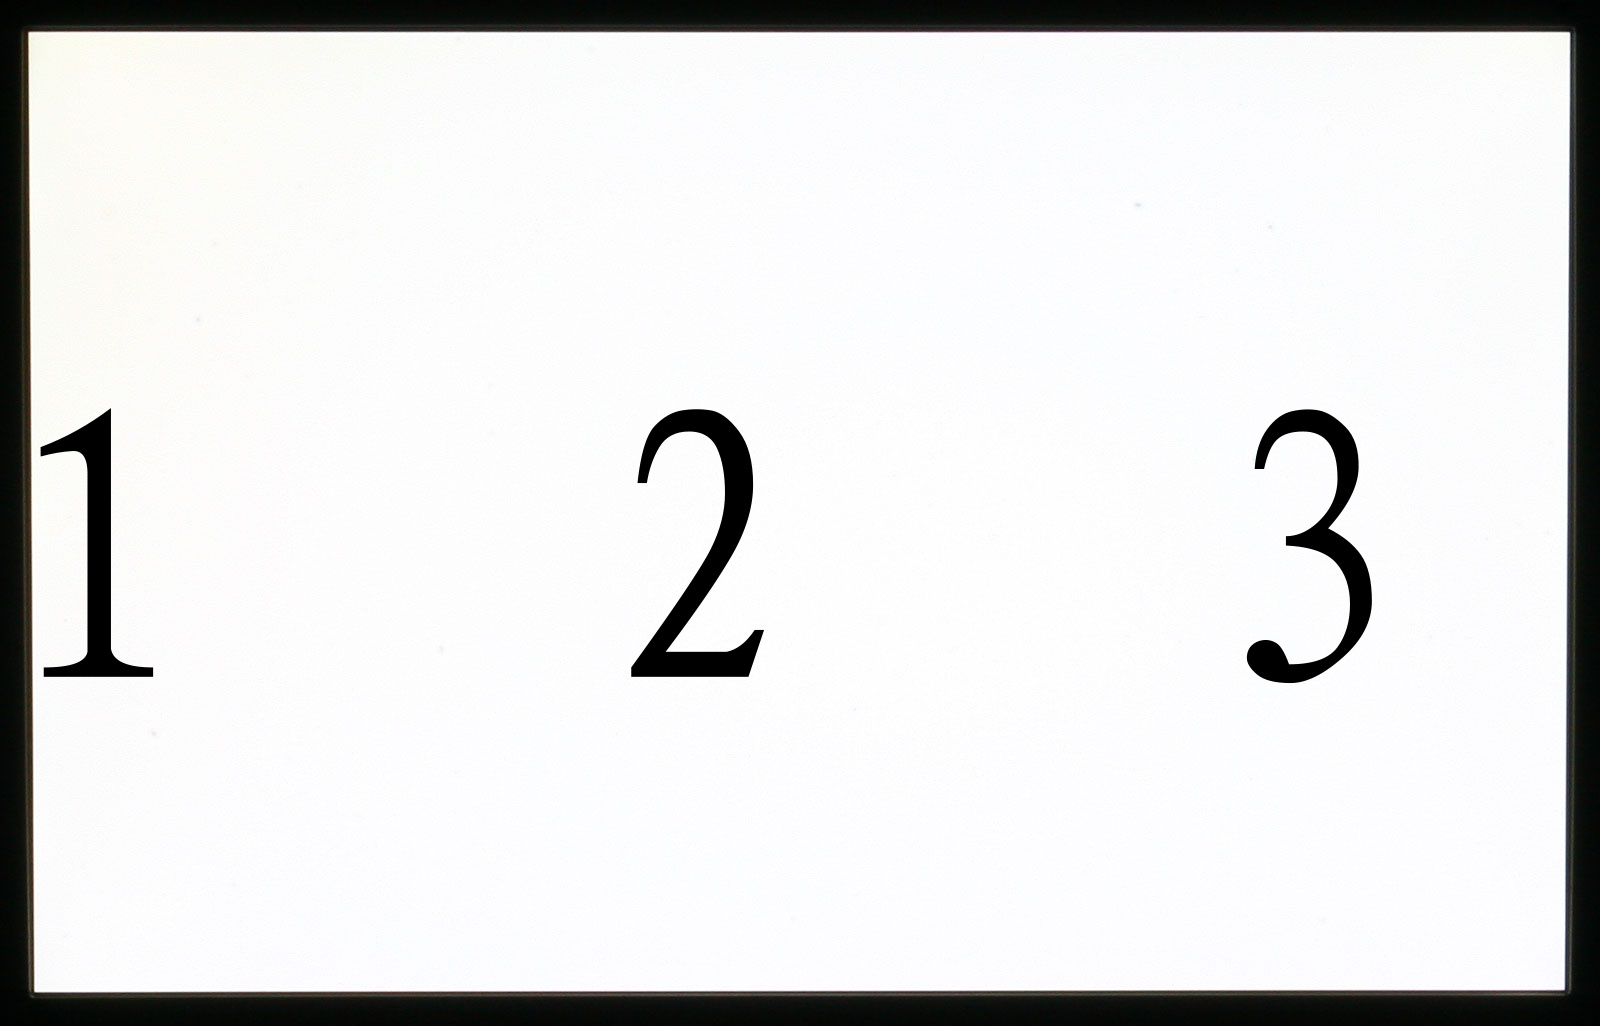
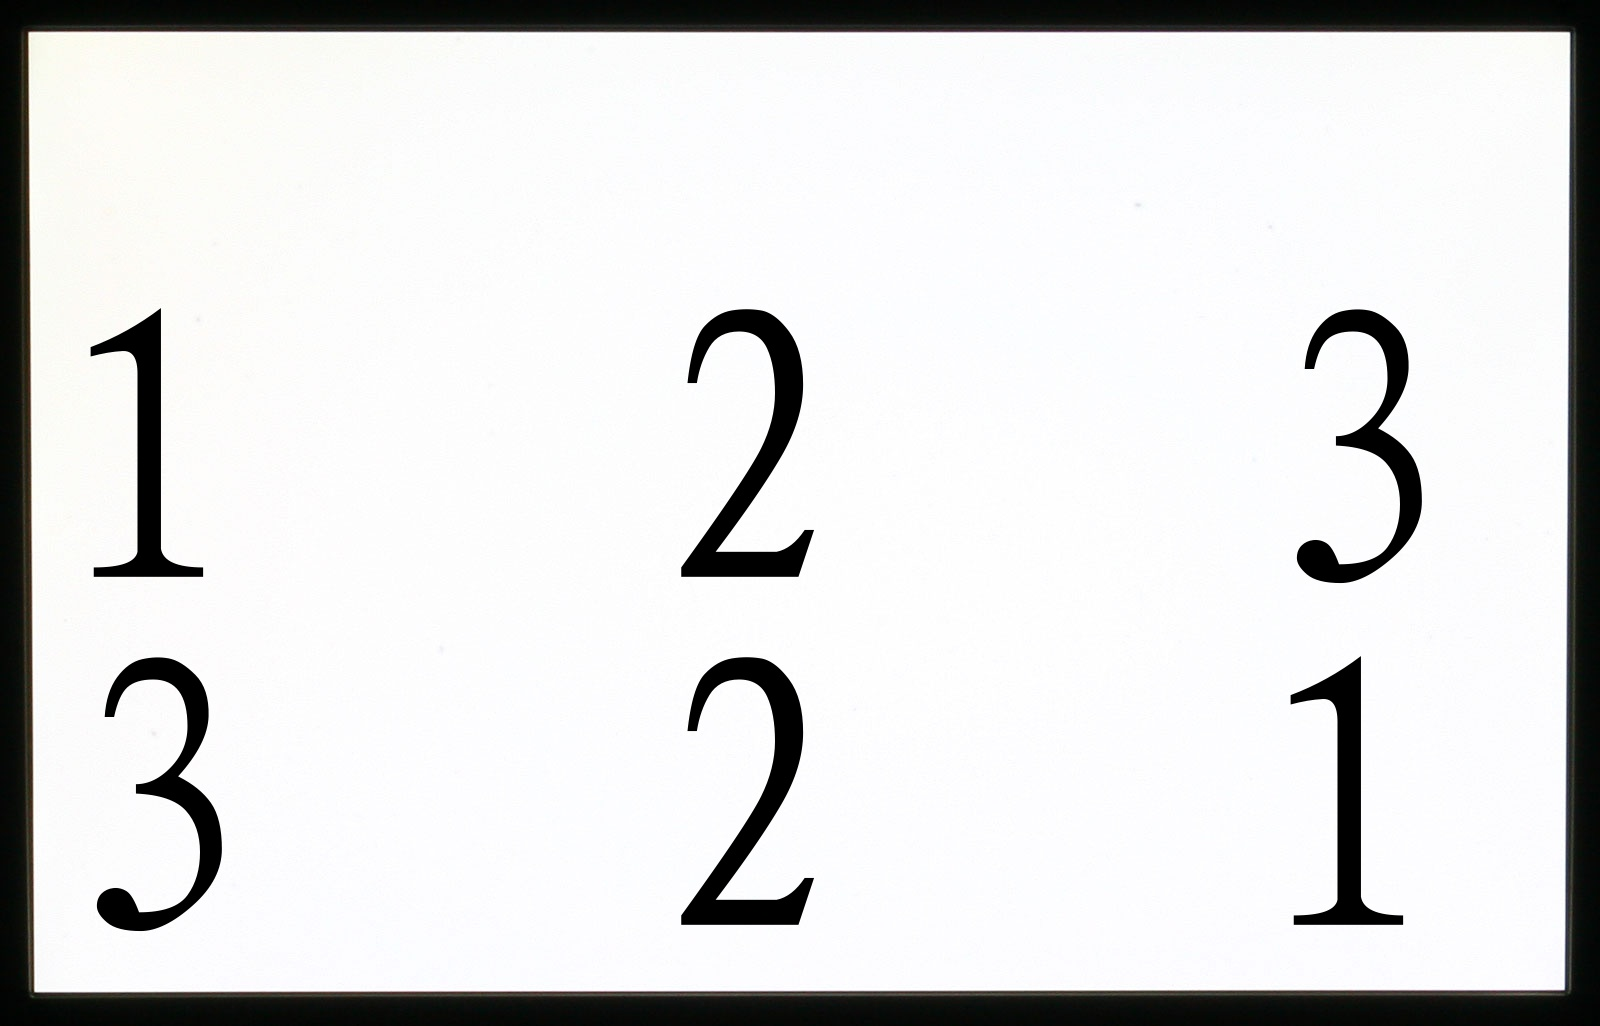
主程序修改调试

diff --git a/identify.py b/identify.py
@@ -17,7 +17,7 @@ class VideoCapture:
         self.mapx2, self.mapy2 = cv2.fisheye.initUndistortRectifyMap(self.K, self.D, None, self.p, (self.width, self.height), cv2.CV_32F)
 
         self.frame = None
-        self.video = cv2.VideoCapture(index)
+        # self.video = cv2.VideoCapture(index)
         self.video.set(cv2.CAP_PROP_FOURCC, cv2.VideoWriter_fourcc('M', 'J', 'P', 'G'))
         if not self.video.isOpened():
             print("无法打开摄像头")
@@ -34,18 +34,18 @@ class VideoCapture:
             
     def QR_code(self):
         qr_coder = cv2.QRCodeDetector()
+        # while True:
         if 1:
         #try:
-            frame = self.frame
+            frame = self.get_frame()
             # qr检测并解码
             codeinfo, points, straight_qrcode = qr_coder.detectAndDecode(frame)
-
-
         # 绘制qr的检测结果
             if codeinfo !='' :
                 print(points)
                 # 打印解码结果
                 print("qrcode :", codeinfo)
+                # self.cv_imshow(frame)
                 return codeinfo
         #except:
             #print("检测二维码失败")
@@ -133,13 +133,20 @@ def get_text(list):
         2:"2",
         3:"3"
     }
+    count = 0
     for i in list:
-        text = config[list[i-1]]
+        text = config[i]
         texts = texts+text+"  "
+        count +=1
+        while count == 3 :
+            texts = texts +"\n"
+            break
+    print(texts)
     return texts
     
     
 def show_mission(list):
+    # list = str_int(list=list)
     img = cv2.imread("white.jpg")
     pil_img = Image.fromarray(cv2.cvtColor(img, cv2.COLOR_BGR2RGB))
     # 创建一个可以在图像上绘图的对象
@@ -148,7 +155,7 @@ def show_mission(list):
     font = ImageFont.truetype("simkai.ttf", 400, encoding="unic")
     # 指定文本位置和颜色
     text = get_text(list)
-    position = (0, 350)
+    position = (50, 250)
     text_color = (0, 0, 0)
     # 在图像上绘制文本
     draw.text(position, text, fill=text_color, font=font)
@@ -162,23 +169,37 @@ def show_mission(list):
                 break
     cv2.destroyAllWindows()
     
+def str_int(list):
+        li = list.split("+")
+        data = []
+        print(len(li))
+        for i in range(len(li)):
+            temporary = int(li[i])
+            data1= temporary//100
+            data.append(data1)
+            data2 = (temporary-data1*100)//10
+            data.append(data2)
+            data3 = temporary-data1*100-data2*10
+            data.append(data3)
+            print(data)
+        return data
     
     
     
 if __name__ == "__main__":
     # show_mission([1,2,3])
-    video = VideoCapture(0)
-    while True:
+    # video = VideoCapture(0)
+    # while True:
 
-        video.find_material(2)
-        video.cv_imshow()
+    #     list = video.QR_code()
+    #     video.cv_imshow()
 
-        #video.cv_imshow()
-        if cv2.waitKey(1) & 0xFF == ord('q'):
-            break
+    #     #video.cv_imshow()
+    #     if cv2.waitKey(1) & 0xFF == ord('q'):
+    #         break
 
 
-    video.release()
+    # video.release()
     # cap = cv2.VideoCapture(0)
     # #cap.set(cv2.CAP_PROP_FOURCC, cv2.VideoWriter_fourcc('M', 'J', 'P', 'G'))
     # if not cap.isOpened():
@@ -195,3 +216,21 @@ if __name__ == "__main__":
     #
     # cap.release()
     # cv2.destroyAllWindows()
+    list = "123+321"
+    def str_int(list):
+        li = list.split("+")
+        data = []
+        print(len(li))
+        for i in range(len(li)):
+            temporary = int(li[i])
+            data1= temporary//100
+            data.append(data1)
+            data2 = (temporary-data1*100)//10
+            data.append(data2)
+            data3 = temporary-data1*100-data2*10
+            data.append(data3)
+            print(data)
+        return data
+    # data = str_int(list=list)
+    # list = get_text(data)
+    show_mission(list)

diff --git a/main.py b/main.py
@@ -5,20 +5,21 @@ import serial
 import threading
 import uart
 import constants
-from identify import VideoCapture,show_mission
+from identify import VideoCapture, show_mission, str_int
 from control import Motor
+
 # 1代表夹爪，2代表转盘舵机序列号，3代表机械手底座舵机序号
 
 rudder_gripper = 1
 rudder_turntable = 2
 rudder_arm = 3
 # 初始化电机对象，电机对象内包含了uart初始化
-ser = serial.Serial(constants.port_1,constants.baudrate_1)   # 串口初始化
-motor = Motor(ser=ser)      # 电机初始化
+ser = serial.Serial(constants.port_1, constants.baudrate_1)  # 串口初始化
+motor = Motor(ser=ser)  # 电机初始化
 
 # 初始化两个相机对象
-cap1 = VideoCapture(0)   # 识别二维码
-cap2 = VideoCapture(1)   # 识别圆
+cap1 = VideoCapture(0)  # 识别二维码
+# cap2 = VideoCapture(1)   # 识别圆
 while True:
     if ser.in_waiting >= 7:
         data = ser.read(7)
@@ -30,23 +31,29 @@ while True:
         else:
             print("读取的数据不足7字节,尝试重新读取")
     # 接收到启动消息开始运动，接收侧还需要再设计
-vel_msg = {'linear_x': 0.0, 'linear_y': 0.5, 'angular_z': 0.0}
+vel_msg = {"linear_x": 0.0, "linear_y": 0.5, "angular_z": 0.0}
 motor.cmd_vel_callback(vel_msg)
 time.sleep(1.0)
-motor.stop_motor()   # 移动出发车区
-vel_msg = {'linear_x': 1.0, 'linear_y': 0.0, 'angular_z': 0.0}
+motor.stop_motor()  # 移动出发车区
+vel_msg = {"linear_x": 1.0, "linear_y": 0.0, "angular_z": 0.0}
 motor.cmd_vel_callback(vel_msg)
-time.sleep(5.0)      # 移动到二维码区
+time.sleep(5.0)  # 移动到二维码区
 motor.stop_motor()
-list = cap1.QR_code()           # QR_code返回的格式是否为列表有待确认
-identify_list = list           # 复制序列信息，防止线程交叉
-thread = threading.Thread(target=show_mission,args=(list))      # 启动一个线程 展示任务信息
+while True:
+    list = cap1.QR_code()  # QR_code返回的格式是否为列表有待确认
+    list = str_int(list=list)
+    cap1.cv_imshow()
+    if len(list) > 0:
+        print(type(list))
+        break
+identify_list = list  # 复制序列信息，防止线程交叉
+thread = threading.Thread(target=show_mission, args=(list))  # 启动一个线程 展示任务信息
 thread.start()
-vel_msg = {'linear_x': 1.0, 'linear_y': 0.0, 'angular_z': 0.0}
+vel_msg = {"linear_x": 1.0, "linear_y": 0.0, "angular_z": 0.0}
 motor.cmd_vel_callback(vel_msg)
 time.sleep(5.0)
 motor.stop_motor()
-for i,element in enumerate(identify_list):
+for i, element in enumerate(identify_list):
     while True:
         try:
             xyr = cap2.find_material(element)
@@ -54,12 +61,10 @@ for i,element in enumerate(identify_list):
         except:
             continue
     # 先降步进电机
-    motor.control_stepping()       # 还未定义
+    motor.control_stepping()  # 还未定义
     # 夹爪夹住物料
-    motor.control_rudder(index=rudder_gripper,angle=90)
+    motor.control_rudder(index=rudder_gripper, angle=90)
     # 升步进电机
     motor.control_stepping()
     # 转底座
-    motor.control_rudder(index=rudder_arm,angle=90)
-    
-    
+    motor.control_rudder(index=rudder_arm, angle=90)

diff --git a/constants.py b/constants.py
@@ -7,6 +7,6 @@ color_config = {
     2:[np.array([35,43,46]),np.array([77,255,255])],    # green
     3:[np.array([100,43,46]),np.array([124,255,255])]  # blue
 }
-port_1 = "COM8"
+port_1 = "/dev/ttyACM0"
 baudrate_1=230400
-print(color_config[1])
+# print(color_config[1])
